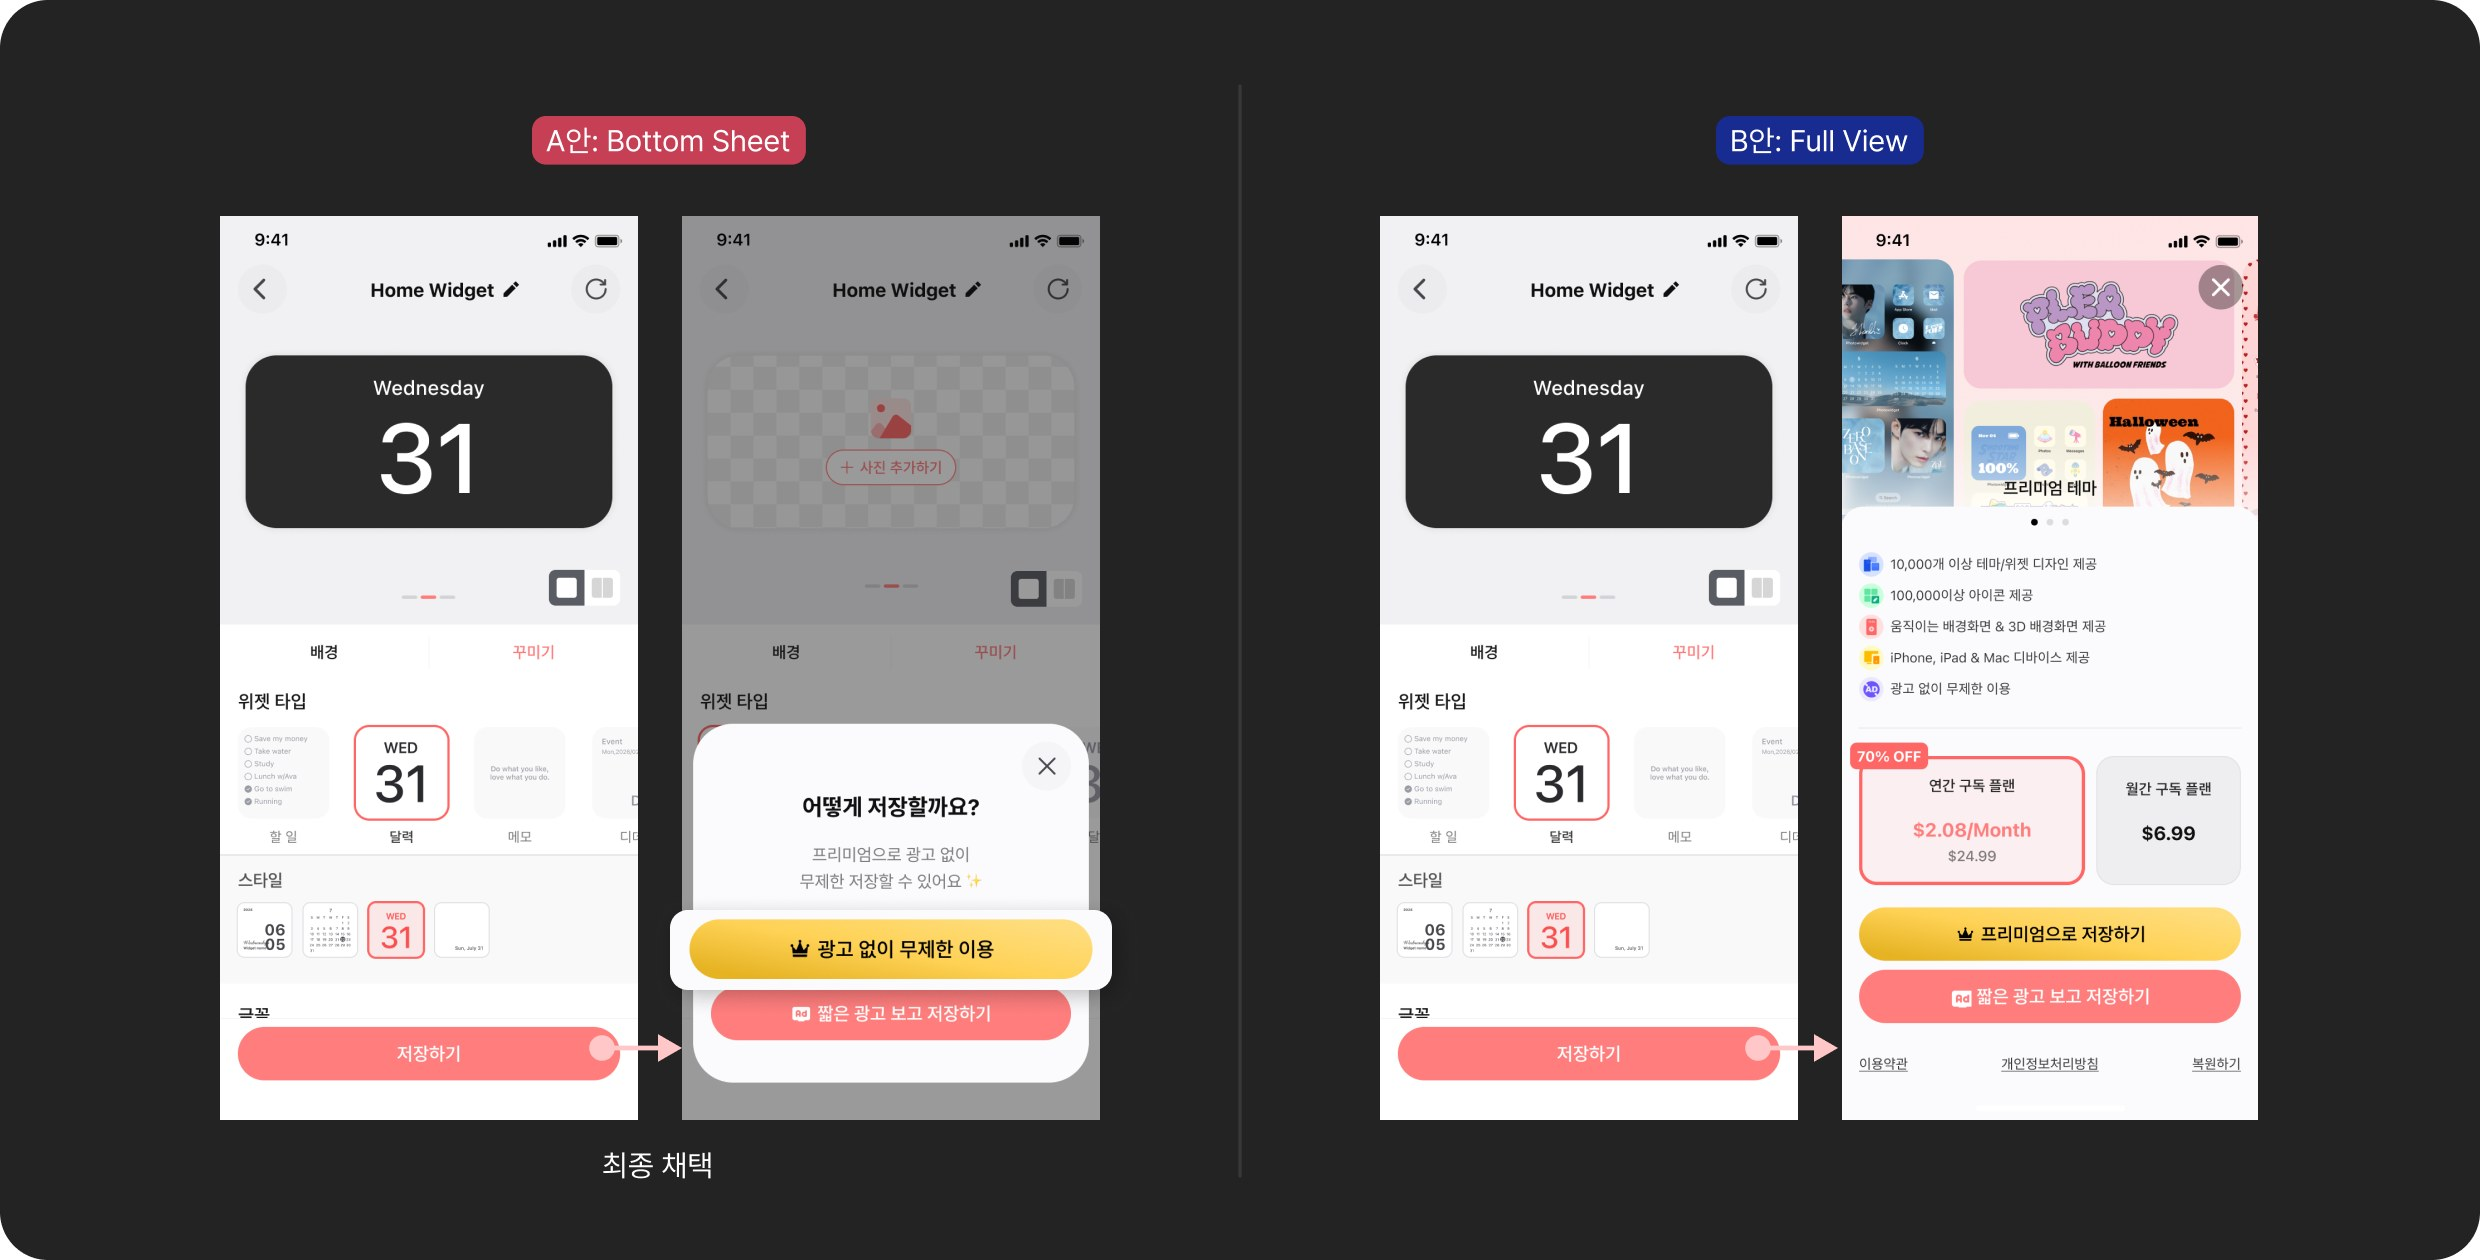
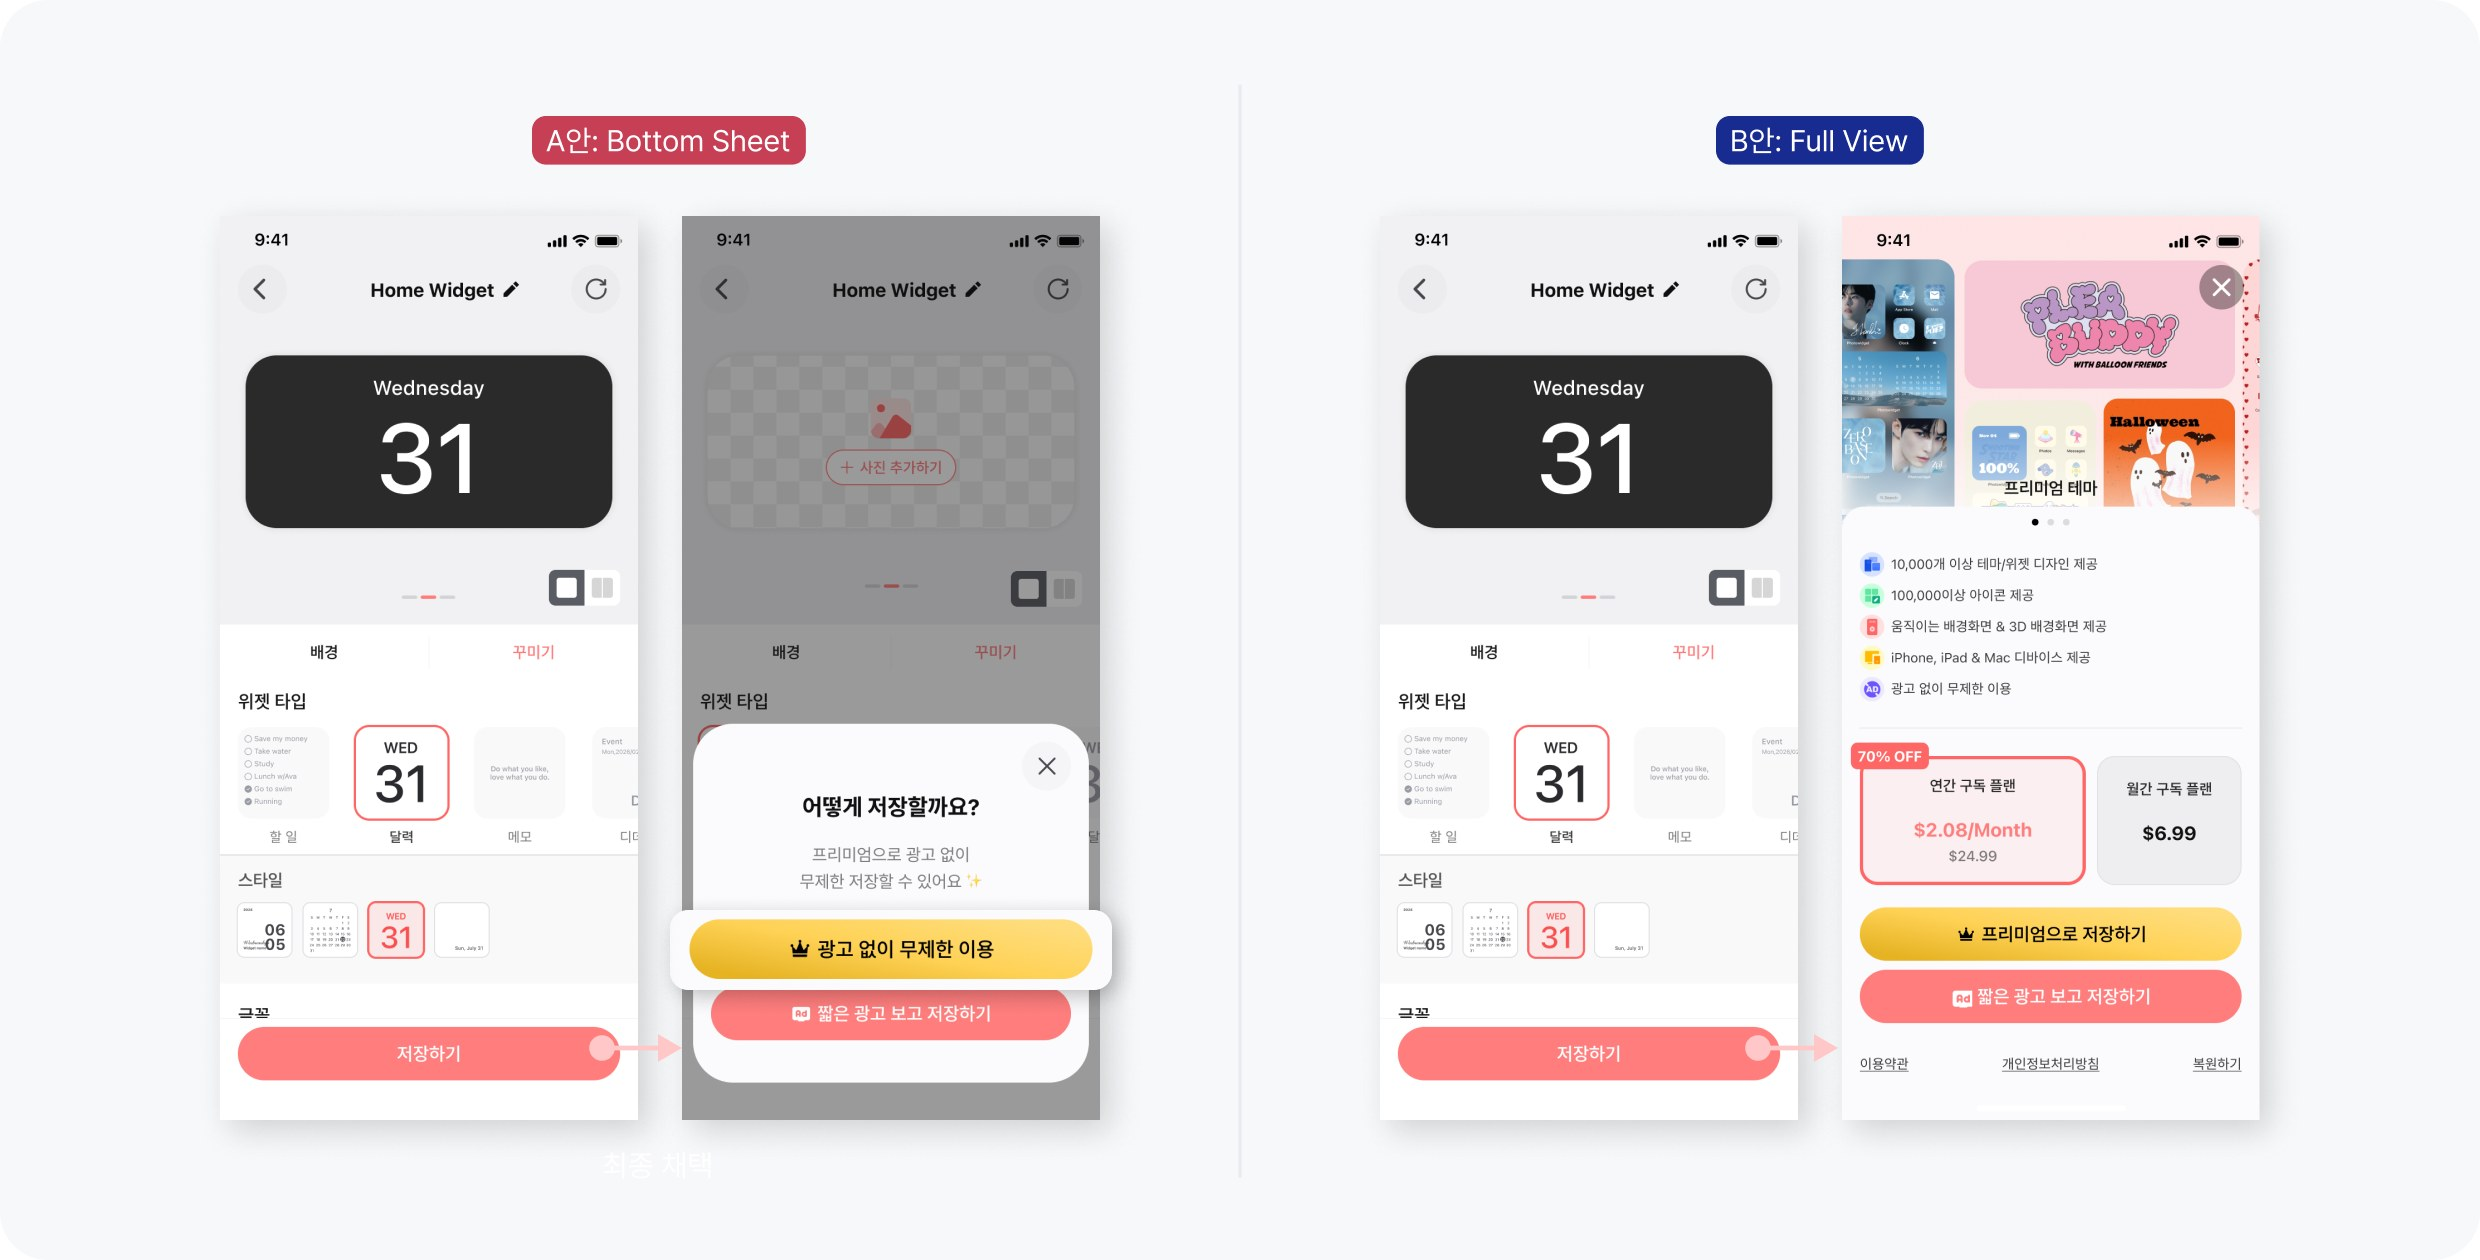
Save-conversion: replace First/Second/A-B images with new light-background Figma versions (2x)

diff --git a/docs/projects/photowidget-save-conversion/index.html b/docs/projects/photowidget-save-conversion/index.html
@@ -64,7 +64,7 @@
   </section>
 
   <section class="sec split split-tight">
-    <img class="shot" src="/yoojin-portfolio/assets/save-conversion/first-test.jpg?v=2" width="610" height="630" alt="위젯 편집 화면에 진입하자마자 광고·구독 저장 버튼을 보여준 첫 번째 테스트 화면" />
+    <img class="shot" src="/yoojin-portfolio/assets/save-conversion/first-test.jpg?v=3" width="610" height="630" alt="위젯 편집 화면에 진입하자마자 광고·구독 저장 버튼을 보여준 첫 번째 테스트 화면" />
     <div class="sec-text">
       <p class="caption">First Test</p>
       <h2>저장 시 액션을 미리 인지시킨다면?</h2>
@@ -76,7 +76,7 @@
   </section>
 
   <section class="sec split">
-    <img class="shot" src="/yoojin-portfolio/assets/save-conversion/second-test.jpg?v=2" width="610" height="630" alt="저장 버튼을 누른 뒤 바텀시트로 광고·구독 저장 방식을 보여준 두 번째 테스트 화면" />
+    <img class="shot" src="/yoojin-portfolio/assets/save-conversion/second-test.jpg?v=3" width="610" height="630" alt="저장 버튼을 누른 뒤 바텀시트로 광고·구독 저장 방식을 보여준 두 번째 테스트 화면" />
     <div class="sec-text">
       <p class="caption">Second Test</p>
       <h2>가장 저장을 완수하고 싶을 때 인지시킨다면?</h2>
@@ -88,7 +88,7 @@
   </section>
 
   <section class="sec">
-    <img class="shot" src="/yoojin-portfolio/assets/save-conversion/ab-test.jpg?v=2" width="1240" height="630" alt="A안: Bottom Sheet(최종 채택)와 B안: Full View 화면 비교" />
+    <img class="shot" src="/yoojin-portfolio/assets/save-conversion/ab-test.jpg?v=3" width="1240" height="630" alt="A안: Bottom Sheet(최종 채택)와 B안: Full View 화면 비교" />
     <div class="sec-text text-col">
       <p class="caption">A/B Test</p>
       <h2>다양한 구독 혜택 보여주기 vs 맥락에 맞는 혜택 보여주기</h2>

diff --git a/docs/site.css b/docs/site.css
@@ -268,3 +268,4 @@ a.card:hover .ph { opacity: .75; }
 .case-save .sec-results .lesson-b .body.stack { gap: 20px; }
 .case-editor .sec .ph, .case-editor .duo .ph { border-radius: 16px; }
 @media (min-width: 768px) { .case-editor .sec .ph, .case-editor .duo .ph { border-radius: 24px; } }
+.case-save .shot { background: #f6f8fa; }
